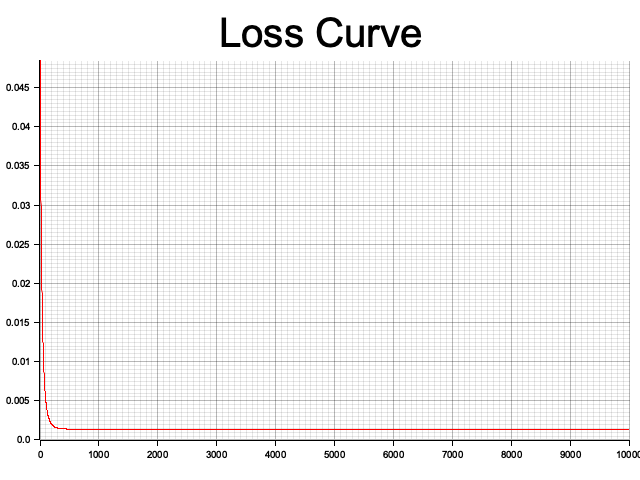
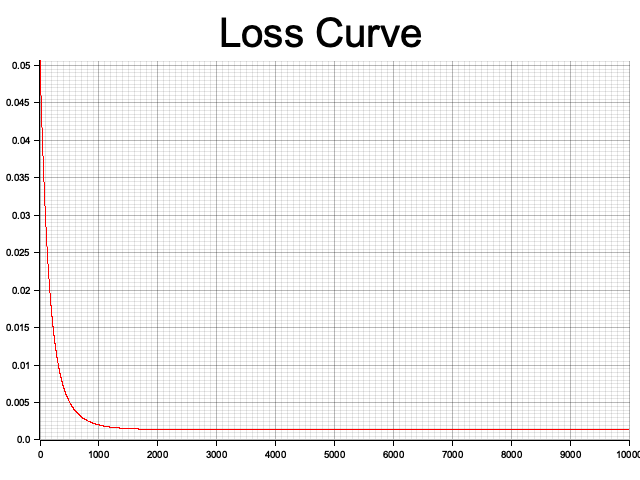
Updating logic

Changed region(s): [[0.0, 0.125, 1.0, 0.9062]]

diff --git a/src/neural_network.rs b/src/neural_network.rs
@@ -1,5 +1,6 @@
 use rand::Rng;
 use crate::math::{derivative, sigmoid};
+use plotters::prelude::*;
 
 pub struct NeuralNetwork {
     weights: Vec<f64>,
@@ -28,10 +29,16 @@ impl NeuralNetwork {
         sigmoid(sum)
     }
 
-    pub fn train(&mut self, inputs: Vec<[f64; 2]>, outputs: Vec<f64>, epochs: usize) {
+    pub fn train(&mut self, inputs: Vec<[f64; 2]>, outputs: Vec<f64>, epochs: usize) -> (Vec<f64>, Vec<f64>) {
         let mut losses = Vec::new();
+        let mut accuracies = Vec::new();
+
+        println!("Learning rate: {}", self.learning_rate);
+
         for _ in 0..epochs {
             let mut total_loss = 0.0;
+            let mut correct_predictions = 0;
+
             for (i, input) in inputs.iter().enumerate() {
 
                 // Get a prediction for a given input
@@ -53,14 +60,25 @@ impl NeuralNetwork {
                 }
 
                 self.bias += self.learning_rate * error * delta;
+
+                // Calculate accuracy
+                let predicted = if output >= 0.5 { 1.0 } else { 0.0 };
+                if predicted == outputs[i] {
+                    correct_predictions += 1;
+                }
             }
-            losses.push(total_loss / inputs.len() as f64);
+
+            let loss = total_loss / inputs.len() as f64;
+            let accuracy = correct_predictions as f64 / inputs.len() as f64;
+
+            losses.push(loss);
+            accuracies.push(accuracy);
         }
-        self.plot_loss_curve(&losses);
+
+        (losses, accuracies)
     }
 
-    fn plot_loss_curve(&self, losses: &[f64]) {
-        use plotters::prelude::*;
+    pub fn plot_loss_curve(&self, losses: &[f64]) {
         let root = BitMapBackend::new("loss_curve.png", (640, 480)).into_drawing_area();
         root.fill(&WHITE).unwrap();
         let mut chart = ChartBuilder::on(&root)
@@ -76,6 +94,25 @@ impl NeuralNetwork {
         chart.draw_series(LineSeries::new(
             (0..).zip(losses.iter()).map(|(x, y)| (x, *y)),
             &RED,
+        )).unwrap();
+    }
+
+    pub fn plot_accuracy_curve(&self, accuracy: &[f64]) {
+        let root = BitMapBackend::new("accuracy_curve.png", (640, 480)).into_drawing_area();
+        root.fill(&WHITE).unwrap();
+        let mut chart = ChartBuilder::on(&root)
+            .caption("Accuracy Curve", ("sans-serif", 50).into_font())
+            .margin(10)
+            .x_label_area_size(30)
+            .y_label_area_size(30)
+            .build_cartesian_2d(0..accuracy.len(), 0.0..*accuracy.iter().max_by(|a, b| a.partial_cmp(b).unwrap()).unwrap())
+            .unwrap();
+
+        chart.configure_mesh().draw().unwrap();
+
+        chart.draw_series(LineSeries::new(
+            (0..).zip(accuracy.iter()).map(|(x, y)| (x, *y)),
+            &BLUE,
         )).unwrap();
     }
 }

diff --git a/src/main.rs b/src/main.rs
@@ -1,3 +1,5 @@
+use rand::seq::IndexedRandom;
+use rand::thread_rng;
 use crate::neural_network::NeuralNetwork;
 
 mod neural_network;
@@ -11,14 +13,25 @@ fn main() {
     let outputs = d.training_outputs;
     let test_inputs = d.test_inputs;
 
+    // Print the first few data points to inspect
+    println!("First 5 training inputs: {:?}", &inputs[..5]);
+    println!("First 5 training outputs: {:?}", &outputs[..5]);
+
     // Initialize the network
-    let mut neural_net = NeuralNetwork::new(0.1);
+    let mut neural_net = NeuralNetwork::new(0.3);
 
     // Train for 10000 epochs
-    neural_net.train(inputs, outputs, 10000);
+    let (losses, accuracy) = neural_net.train(inputs, outputs, 10000);
+
+    // Print the loss and accuracy
+    let mut rng = thread_rng();
+    let random_losses: Vec<_> = losses.choose_multiple(&mut rng, 3).collect();
+    let random_accuracies: Vec<_> = accuracy.choose_multiple(&mut rng, 3).collect();
+
+    println!("Random Losses: {:?}", random_losses);
+    println!("Random Accuracies: {:?}", random_accuracies);
 
     for input in test_inputs.iter() {
-        // Pass a set of inputs (two numbers) and get a prediction back which should be a sum of the two numbers
         let prediction = neural_net.predict(input);
         println!("Input: {:?}, Prediction: {:.1}", input, prediction);
     }
